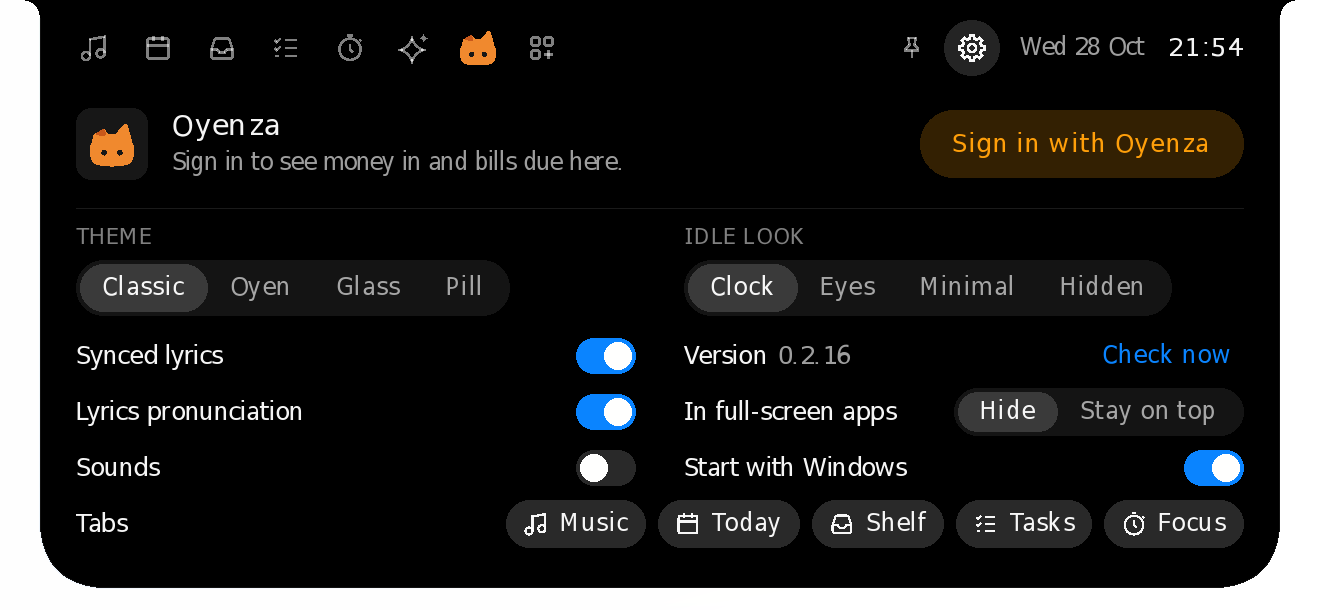
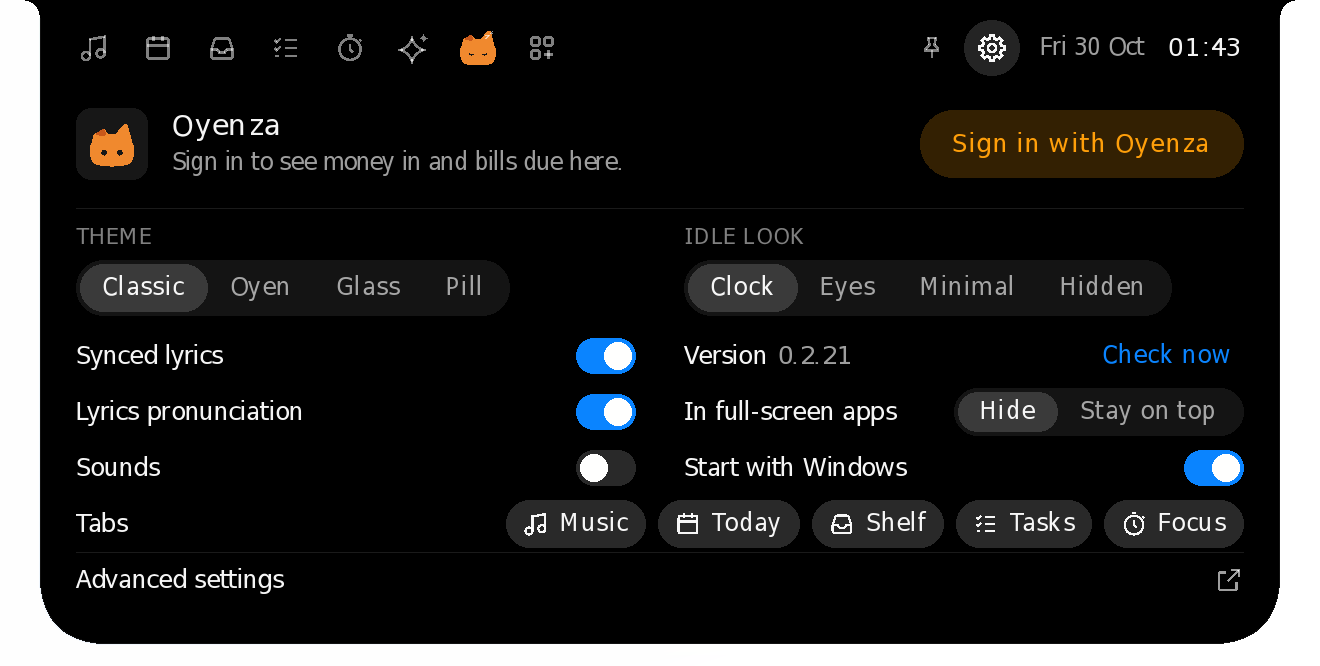
Release 0.2.21 (#189)
Settings in the island again (#186): the gear opens Settings inside the island, and its last row, Advanced settings, opens the window. Also #187 (Mac smoke run vs a slow LRCLIB). Version 0.2.21 in the usual files, notes in docs/release-notes/v0.2.21.md, and the website's New in 0.2.21 band and Settings chapter.

diff --git a/site/index.html b/site/index.html
@@ -691,7 +691,7 @@ dialog.more-sheet::backdrop { background: rgba(0, 0, 0, 0.42); -webkit-backdrop-
     <div class="side-sec">
       <p class="side-group">Overview</p>
       <a class="side-item" href="#top" data-k="home start download hero notch island"><i class="ic" style="--c:#1d1d1f"><svg class="ico"><use href="#i-screen"/></svg></i><span>A living notch</span></a>
-      <a class="side-item" href="#new" data-k="new release 0.2.20 latest changes settings window glides smooth motion 144 fps 120 hz promotion slide switches highlight trackpad scroll reduce motion downloader progress youtube puzzle solving meeting notes mac ielts coach speaking band downloader video sound studio pro settings window gear every setting one place sidebar light dark mode mac window title bar meeting notes record call transcript summary action items pro ai tab usage codex claude code opencode go gemini cursor copilot kimi glm minimax openrouter limits plans resets heads-up tabs hide switch off music today shelf tasks focus prayer countdown ok lyrics come back steps two hours ielts notifications whatsapp telegram mac signed developer id notarized checked by apple opens open anyway gone privacy security permissions once more right click menu stays open island stays open always looks for new versions version check now bluetooth pop-ups headphones speakers paired quiet connected disconnected check for updates every hour check now update available stays lyrics bar zen firefox stocks prices fixed getting prices mac updates install in place ihsg idx saham watchlist chart oyenza.trade today five weeks week ahead schedule month grid dots allow turn on prayer times anywhere world city mac youtube spotify browser now playing pill notch oyen oyenza tab system health add-ons clipboard history gone today your day google calendar gmail meeting join flights bills clipboard add-on touch screen tablet taps tap through notch eyes hide and seek macbook camera update available new version install now next start updater mac installer dmg window steps health oyenza sign in mac headphones full screen power island stays maximized windows sing along romaji lyrics mac prayer script reader teleprompter games power"><i class="ic" style="--c:#bf4800"><svg class="ico"><use href="#i-spark"/></svg></i><span>New in 0.2.20</span></a>
+      <a class="side-item" href="#new" data-k="new release 0.2.21 latest changes settings in the island again gear advanced settings window island closes update in version row check now settings window glides smooth motion 144 fps 120 hz promotion slide switches highlight trackpad scroll reduce motion downloader progress youtube puzzle solving meeting notes mac ielts coach speaking band downloader video sound studio pro settings window gear every setting one place sidebar light dark mode mac window title bar meeting notes record call transcript summary action items pro ai tab usage codex claude code opencode go gemini cursor copilot kimi glm minimax openrouter limits plans resets heads-up tabs hide switch off music today shelf tasks focus prayer countdown ok lyrics come back steps two hours ielts notifications whatsapp telegram mac signed developer id notarized checked by apple opens open anyway gone privacy security permissions once more right click menu stays open island stays open always looks for new versions version check now bluetooth pop-ups headphones speakers paired quiet connected disconnected check for updates every hour check now update available stays lyrics bar zen firefox stocks prices fixed getting prices mac updates install in place ihsg idx saham watchlist chart oyenza.trade today five weeks week ahead schedule month grid dots allow turn on prayer times anywhere world city mac youtube spotify browser now playing pill notch oyen oyenza tab system health add-ons clipboard history gone today your day google calendar gmail meeting join flights bills clipboard add-on touch screen tablet taps tap through notch eyes hide and seek macbook camera update available new version install now next start updater mac installer dmg window steps health oyenza sign in mac headphones full screen power island stays maximized windows sing along romaji lyrics mac prayer script reader teleprompter games power"><i class="ic" style="--c:#bf4800"><svg class="ico"><use href="#i-spark"/></svg></i><span>New in 0.2.21</span></a>
       <a class="side-item" href="#highlights" data-k="best gallery overview"><i class="ic" style="--c:#ff9f0a"><svg class="ico"><use href="#i-spark"/></svg></i><span>Highlights</span></a>
       <a class="side-item" href="#features" data-k="rest idle music timer volume charging headphones bluetooth money clock eyes prayer countdown"><i class="ic" style="--c:#636366"><svg class="ico"><use href="#i-island"/></svg></i><span>While it rests</span></a>
     </div>
@@ -790,9 +790,9 @@ dialog.more-sheet::backdrop { background: rgba(0, 0, 0, 0.42); -webkit-backdrop-
           <div class="hero-copy">
             <h1 class="t-hero-eyebrow">Oyenza Studio</h1>
             <p class="t-hero">A living notch.</p>
-            <a class="t-avail" href="#new">New in 0.2.20: the Settings window glides, at your screen's own rate.</a>
+            <a class="t-avail" href="#new">New in 0.2.21: Settings opens in the island again, and Advanced settings opens every setting in a window.</a>
             <div class="buybox">
-              <div><b>Free for Windows and Mac</b><span class="fine">Open source · Windows <span data-release="size">3.2&nbsp;MB</span> · Mac <span data-release="mac-size">5.8&nbsp;MB</span> · <a class="notes" data-release="notes" href="https://github.com/lucacadalora/oyenza-studio/releases/latest">What's new in <span data-release="version">0.2.20</span></a></span></div>
+              <div><b>Free for Windows and Mac</b><span class="fine">Open source · Windows <span data-release="size">3.2&nbsp;MB</span> · Mac <span data-release="mac-size">5.8&nbsp;MB</span> · <a class="notes" data-release="notes" href="https://github.com/lucacadalora/oyenza-studio/releases/latest">What's new in <span data-release="version">0.2.21</span></a></span></div>
               <a class="btn dl-primary" href="https://github.com/lucacadalora/oyenza-studio/releases/latest/download/Oyenza-Studio-Setup.exe">Download</a>
             </div>
             <a class="link hero-other dl-other" data-release="mac-link" href="https://github.com/lucacadalora/oyenza-studio/releases/latest/download/Oyenza-Studio-Mac.dmg">Download for Mac</a>
@@ -812,13 +812,17 @@ dialog.more-sheet::backdrop { background: rgba(0, 0, 0, 0.42); -webkit-backdrop-
 
   <section class="sec band" id="new" aria-labelledby="new-title">
     <div class="content head rv">
-      <h2 class="t-l" id="new-title">New in 0.2.20.</h2>
+      <h2 class="t-l" id="new-title">New in 0.2.21.</h2>
       <button class="more" type="button" data-more="m-new">Everything new, release by release<i><svg class="ico"><use href="#i-plus"/></svg></i></button>
     </div>
     <div class="content news">
       <a class="news-tile shot wide rv" href="#settings">
+        <span class="news-visual top left" aria-hidden="true"><img class="look-classic" src="assets/shots/classic/page-settings.webp" alt="" width="660" height="333" loading="lazy"><img class="look-oyen" src="assets/shots/oyen/page-settings.webp" alt="" width="660" height="333" loading="lazy"></span>
+        <p class="t-card">Settings in the island again</p><p class="t-tile">The gear opens Settings in the island: your account, the theme, the idle look and the switches you use most. Its last row, Advanced settings, opens every setting in a window. On Windows and Mac.</p>
+      </a>
+      <a class="news-tile shot rv" href="#settings">
         <span class="news-visual top left" aria-hidden="true"><img class="look-classic" src="assets/shots/classic/settings-window-appearance.webp" alt="" width="840" height="600" loading="lazy"><img class="look-oyen" src="assets/shots/oyen/settings-window-appearance.webp" alt="" width="840" height="600" loading="lazy"></span>
-        <p class="t-card">A Settings window that glides</p><p class="t-tile">Every setting in one window, light or dark like your system. Switches slide and highlights glide at your screen's own rate, up to 144 frames a second, on Windows and Mac.</p>
+        <p class="t-card">Advanced settings that glide</p><p class="t-tile">Every setting in one window, light or dark like your system. Switches slide and highlights glide at your screen's own rate, up to 144 frames a second, on Windows and Mac.</p>
       </a>
       <a class="news-tile shot rv" href="#pricing">
         <span class="news-visual top left" aria-hidden="true"><img class="look-classic" src="assets/shots/mac/classic/page-notes-listening.webp" alt="" width="710" height="320" loading="lazy"><img class="look-oyen" src="assets/shots/mac/oyen/page-notes-listening.webp" alt="" width="710" height="320" loading="lazy"></span>
@@ -831,10 +835,6 @@ dialog.more-sheet::backdrop { background: rgba(0, 0, 0, 0.42); -webkit-backdrop-
       <a class="news-tile shot rv" href="#pricing">
         <span class="news-visual top left" aria-hidden="true"><img class="look-classic" src="assets/shots/mac/classic/page-downloads.webp" alt="" width="710" height="396" loading="lazy"><img class="look-oyen" src="assets/shots/mac/oyen/page-downloads.webp" alt="" width="710" height="396" loading="lazy"></span>
         <p class="t-card">The Downloader</p><p class="t-tile">Paste a link, pick Video or Sound, and watch it come in to Downloads and the Shelf. Studio Pro, on Windows and Mac. Only what you have the right to keep.</p>
-      </a>
-      <a class="news-tile shot rv" href="#ai">
-        <span class="news-visual top left" aria-hidden="true"><img class="look-classic" src="assets/shots/classic/page-ai.webp" alt="" width="660" height="335" loading="lazy"><img class="look-oyen" src="assets/shots/oyen/page-ai.webp" alt="" width="660" height="335" loading="lazy"></span>
-        <p class="t-card">A tab for your AI plans</p><p class="t-tile">What's left of Codex, Claude Code, OpenCode Go and more, and when each one resets. Switch on a heads-up before you run out.</p>
       </a>
     </div>
   </section>
@@ -1116,14 +1116,14 @@ dialog.more-sheet::backdrop { background: rgba(0, 0, 0, 0.42); -webkit-backdrop-
     <div class="content split">
       <div class="head rv">
         <p class="t-label">Settings</p>
-        <h3 class="t-l" id="settings-title">Every setting, one window.</h3>
-        <p class="t-intro">Press the gear beside the pin, or Settings… in the menu. <b>Changes apply at once.</b> New in 0.2.18: a window of its own, light or dark like your system, on Windows and Mac. New in 0.2.20: it glides, at your screen's own rate.</p>
+        <h3 class="t-l" id="settings-title">Settings, right in the island.</h3>
+        <p class="t-intro">Press the gear beside the pin: Settings opens in the island, with your Oyenza account, the theme, the idle look and the switches you use most. <b>Changes apply at once.</b> Its last row, Advanced settings, or Advanced settings… in the menu, opens a window with every setting, light or dark like your system, that glides at your screen's own rate.</p>
       </div>
       <div class="panel rv-zoom" data-scene="par" style="--band:28px">
         <div class="sky-layer"></div>
         <div class="isl">
-          <img class="look-classic" src="assets/shots/classic/settings-window-general.webp" alt="The Settings window: a sidebar of sections from General to About, and General open with the version and Check now, Start at login, Sounds and the 24-hour clock" width="840" height="600" loading="lazy">
-          <img class="look-oyen" src="assets/shots/oyen/settings-window-general.webp" alt="The Settings window in the Oyen theme" width="840" height="600" loading="lazy">
+          <img class="look-classic" src="assets/shots/classic/page-settings.webp" alt="Settings in the island: Sign in with Oyenza, the theme and the idle look, Synced lyrics, Sounds and Start with Windows, the version with Check now, the tabs, and Advanced settings as the last row" width="660" height="333" loading="lazy">
+          <img class="look-oyen" src="assets/shots/oyen/page-settings.webp" alt="Settings in the island, in the Oyen theme" width="660" height="333" loading="lazy">
         </div>
       </div>
     </div>
@@ -1844,6 +1844,7 @@ dialog.more-sheet::backdrop { background: rgba(0, 0, 0, 0.42); -webkit-backdrop-
     <h2 class="t-m" id="m-new-t">Release by release.</h2>
     <h4>New in 0.2.16</h4>
     <ul class="new-list">
+      <li><i class="ic" style="--c:#00c7be"><svg class="ico"><use href="#i-meter"/></svg></i><span><b>A tab for your AI plans</b>What's left of Codex, Claude Code, OpenCode Go and more, and when each one resets. Switch on a heads-up before you run out.</span></li>
       <li><i class="ic" style="--c:#34c759"><svg class="ico"><use href="#i-tag"/></svg></i><span><b>Meeting notes</b>Oyen listens to your call, then writes it up: the summary, action items and the whole transcript. Studio Pro, on Windows; on the Mac too from 0.2.19.</span></li>
       <li><i class="ic" style="--c:#8e8e93"><svg class="ico"><use href="#i-gear"/></svg></i><span><b>Only the tabs you use</b>Switch off Music, Today, Shelf, Tasks or Focus under Tabs in Settings, and it leaves the tab row.</span></li>
       <li><i class="ic" style="--c:#5e5ce6"><svg class="ico"><use href="#i-moon"/></svg></i><span><b>OK on the prayer countdown</b>In the ten minutes before a prayer, OK puts the countdown away, and your song's lyrics come back until the adzan.</span></li>

diff --git a/docs/release-notes/v0.2.21.md b/docs/release-notes/v0.2.21.md
@@ -1,0 +1,11 @@
+**Settings in the island again.** The gear on the open island opens Settings inside the island again, as it did up to 0.2.17: your Oyenza account, the theme and idle look, the switches you use most, the version with **Check now**, and the tabs. Its last row, **Advanced settings**, opens the window with every setting, and the island closes as the window opens, so the two never sit on top of each other. In the tray menu and the Mac's menu bar item, the window's line is now **Advanced settings…** (still ⌘, on a Mac). When a new version is out, **Update** sits in the version's row, where Check now is.
+
+Everything new in 0.2.20 and 0.2.19 is here too: the Settings window that glides at your screen's own rate, the Downloader's progress, and Meeting notes and the IELTS coach on the Mac. See the [0.2.20 notes](https://github.com/lucacadalora/oyenza-studio/releases/tag/v0.2.20).
+
+**Install:** download `Oyenza-Studio-Setup.exe` and run it. It installs just for you (no admin rights) and can start with Windows. Or unzip the portable zip and run `Poni\poni.exe`. Links to `Oyen-Poni-Setup.exe` keep working: every release carries that file too.
+
+**On a Mac:** open `Oyenza-Studio-Mac.dmg`, drag Oyenza Studio into Applications and open it. macOS asks once whether to open an app downloaded from the internet: click **Open**.
+
+**Upgrading:** the island says **Update available** within the hour on 0.2.13 to 0.2.20, and within half a day on 0.2.6 to 0.2.12; **Install now** in the Update sheet installs it for you. On a Mac, a copy older than 0.2.12 downloads the DMG instead: open it and drag Oyenza Studio into Applications. If macOS doesn't let a copy replace itself, it opens the DMG for you to do the same. Either way it upgrades in place and keeps your settings, data, add-ons and Oyenza sign-in.
+
+The Windows build isn't code-signed yet, so Windows SmartScreen may say "Windows protected your PC". Click **More info → Run anyway**.
